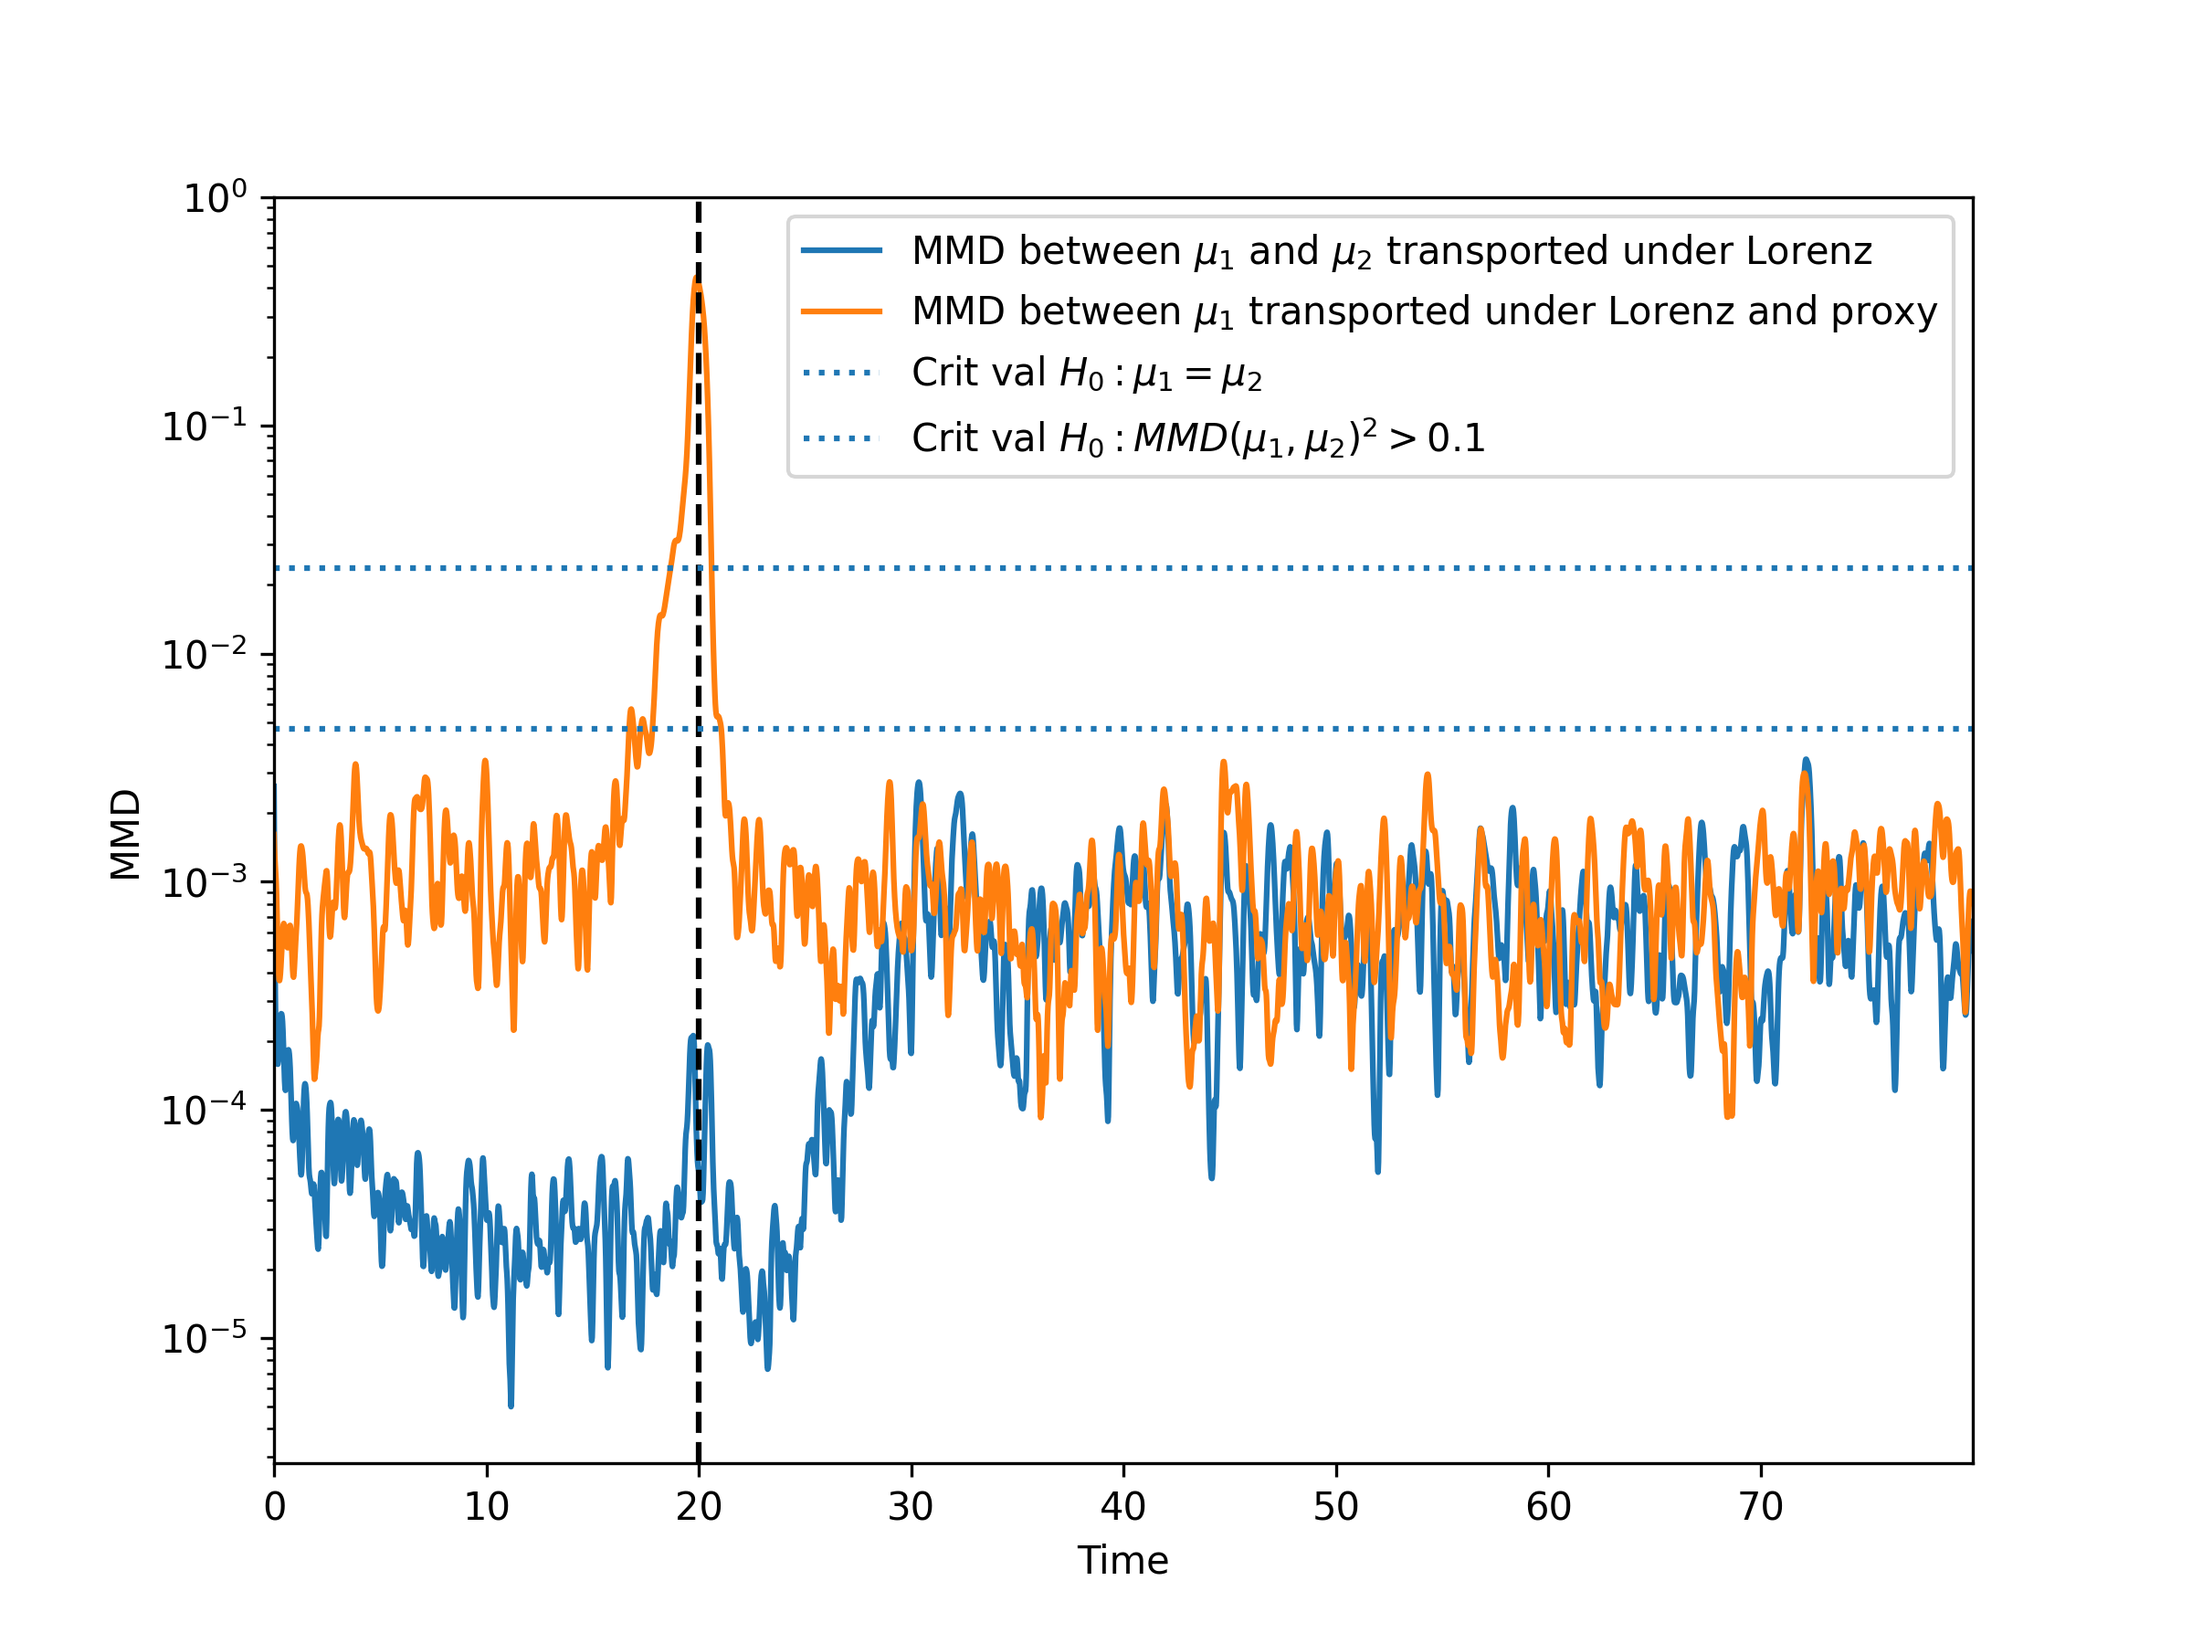
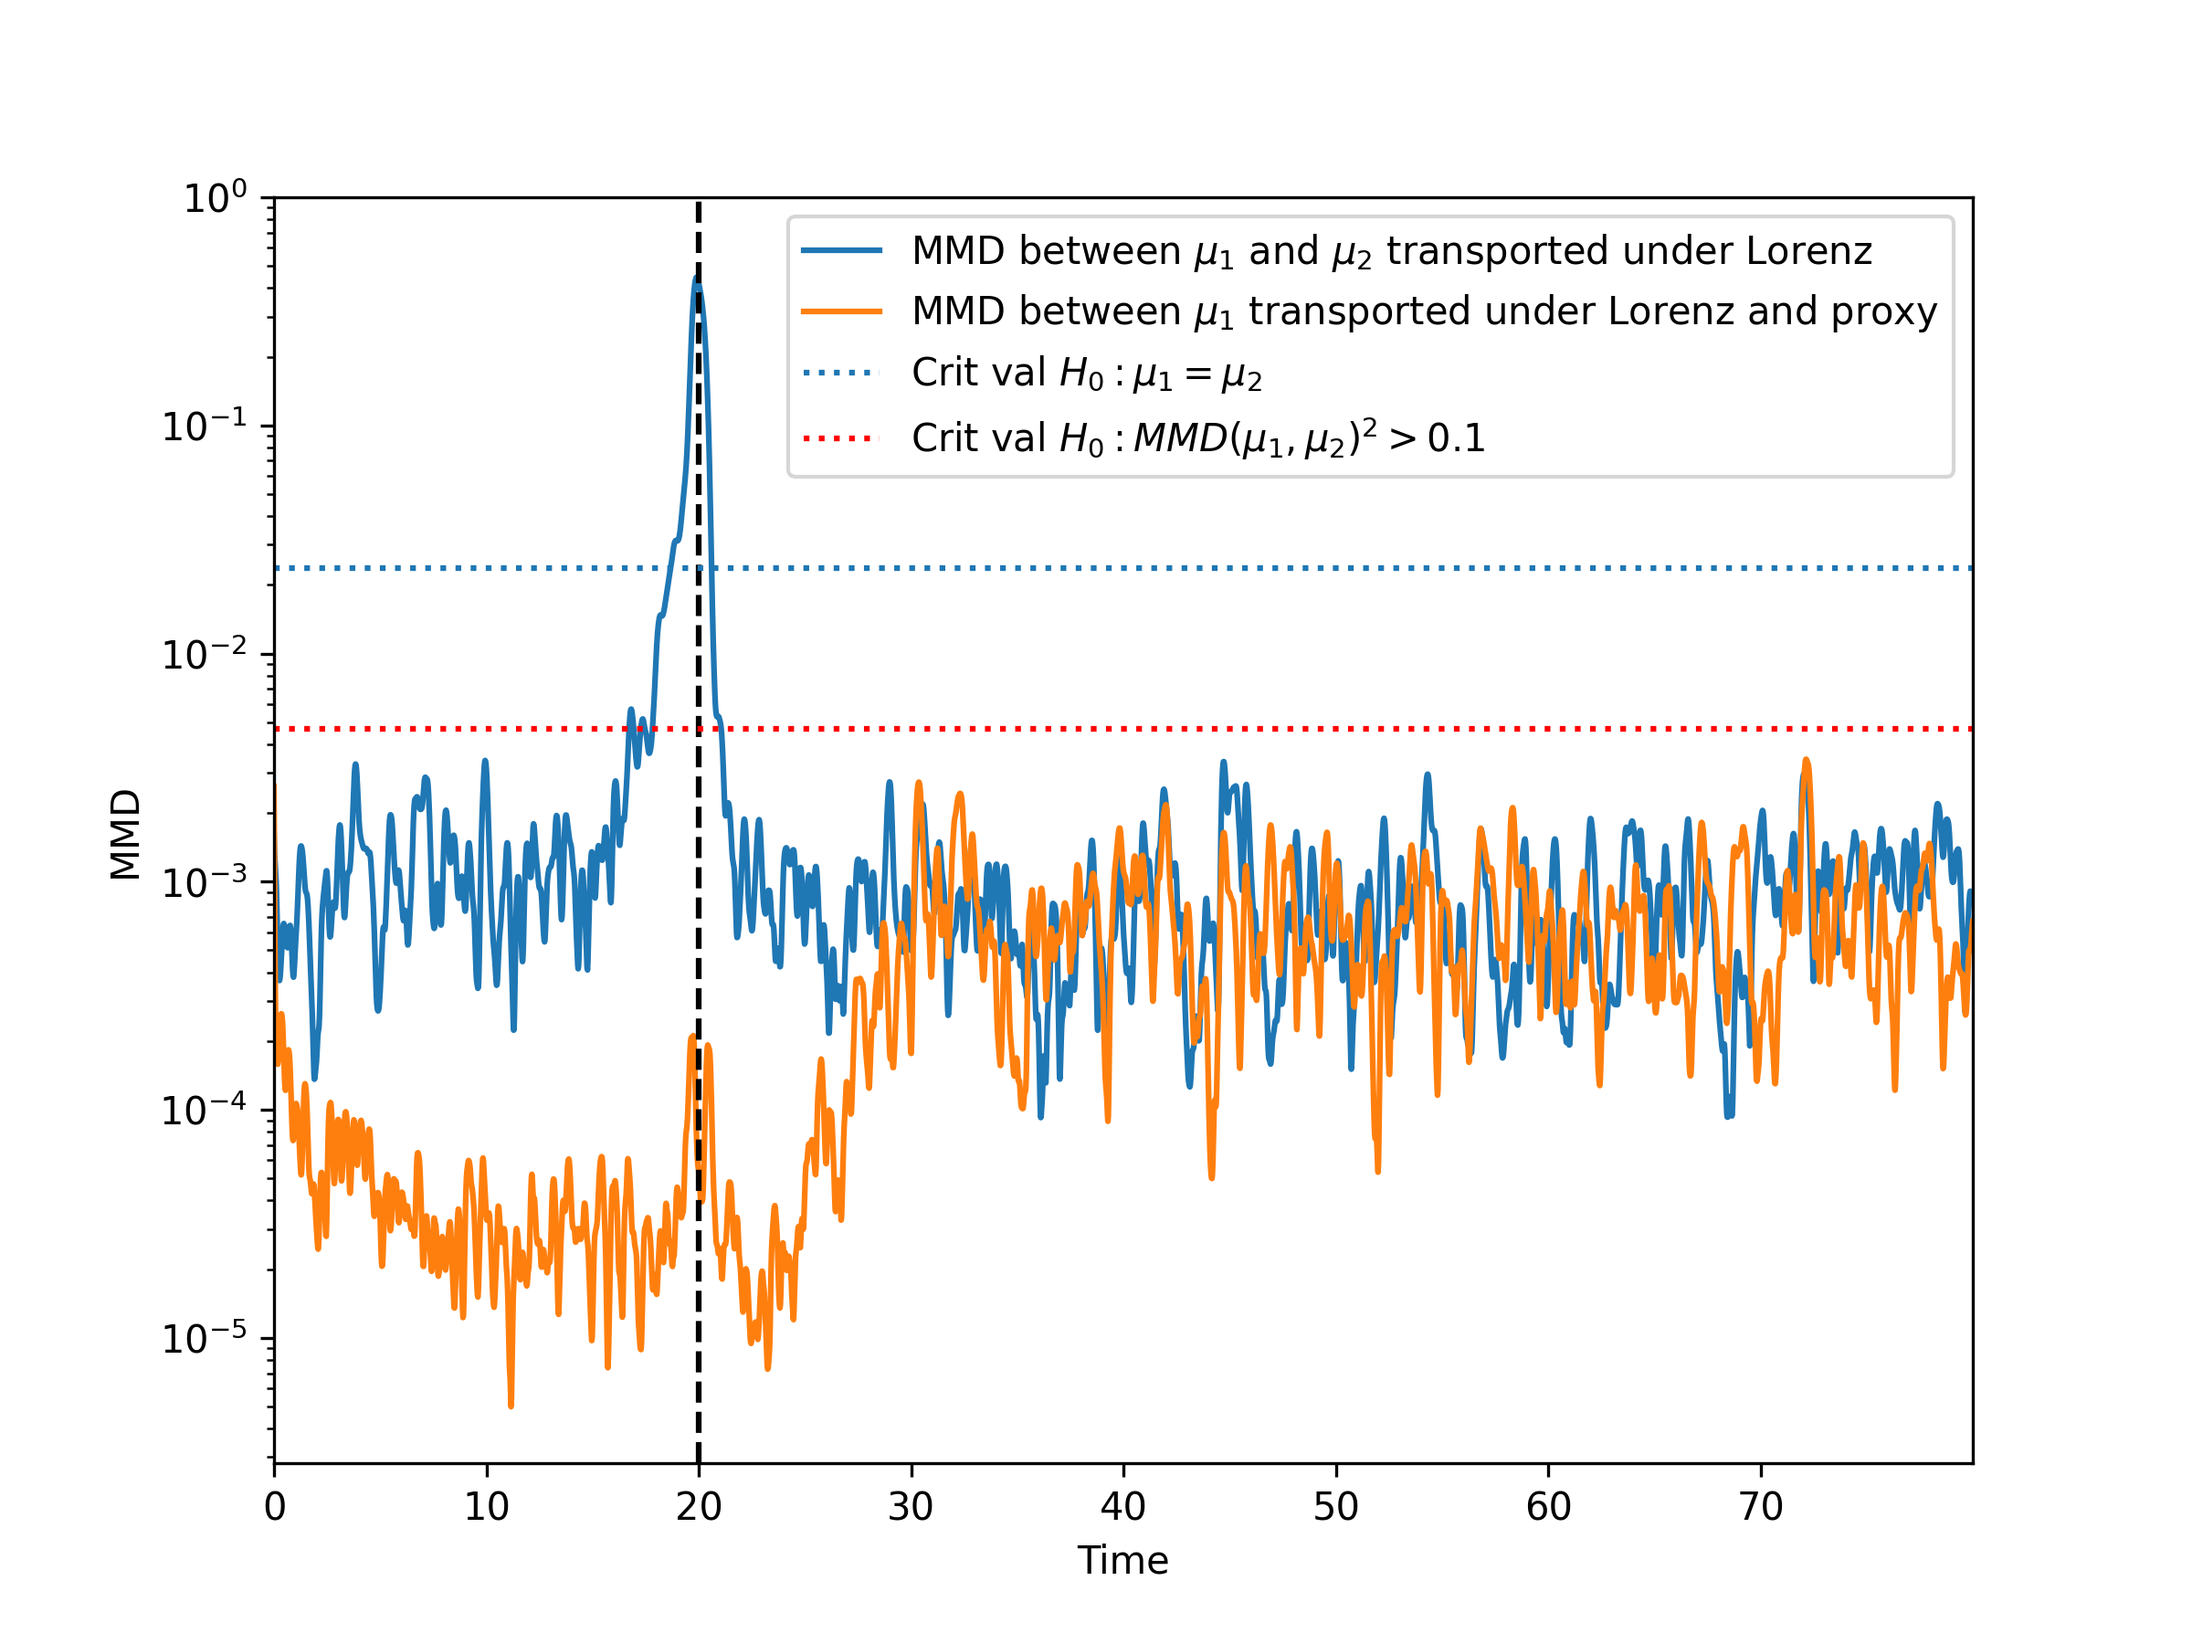
Changes to be committed: 	modified:   lorenz/predict/fig/MMD transport figure.png 	modified:   predict_model.py

Changed region(s): [[0.125, 0.4044, 0.9062, 0.84], [0.3125, 0.1867, 0.3438, 0.3111]]

diff --git a/predict_model.py b/predict_model.py
@@ -248,12 +248,12 @@ hline2 = meas.two_sample_test(m, alpha = 0.05, H0 = '>eps', epsilon_sq = epsilon
 plt.figure(figsize=(8, 6))
 
 # Plot time series
-plt.plot(time, dists_11, label="MMD between $\mu_1$ and $\mu_2$ transported under Lorenz")
-plt.plot(time, dists_12, label="MMD between $\mu_1$ transported under Lorenz and proxy")
+plt.plot(time, dists_12, label="MMD between $\mu_1$ and $\mu_2$ transported under Lorenz")
+plt.plot(time, dists_11, label="MMD between $\mu_1$ transported under Lorenz and proxy")
 
 plt.axvline(x=warmup * step, color="black", linestyle="--")
 plt.axhline(y=hline1, linestyle=":", label=f"Crit val $H_0: \mu_1 = \mu_2$") 
-plt.axhline(y=hline2, linestyle=":", label=f"Crit val $H_0: MMD(\mu_1, \mu_2)^2>{epsilon_sq}$")
+plt.axhline(y=hline2, linestyle=":", label=f"Crit val $H_0: MMD(\mu_1, \mu_2)^2>{epsilon_sq}$", color='red')
 
 plt.yscale("log")
 plt.xlabel("Time")
